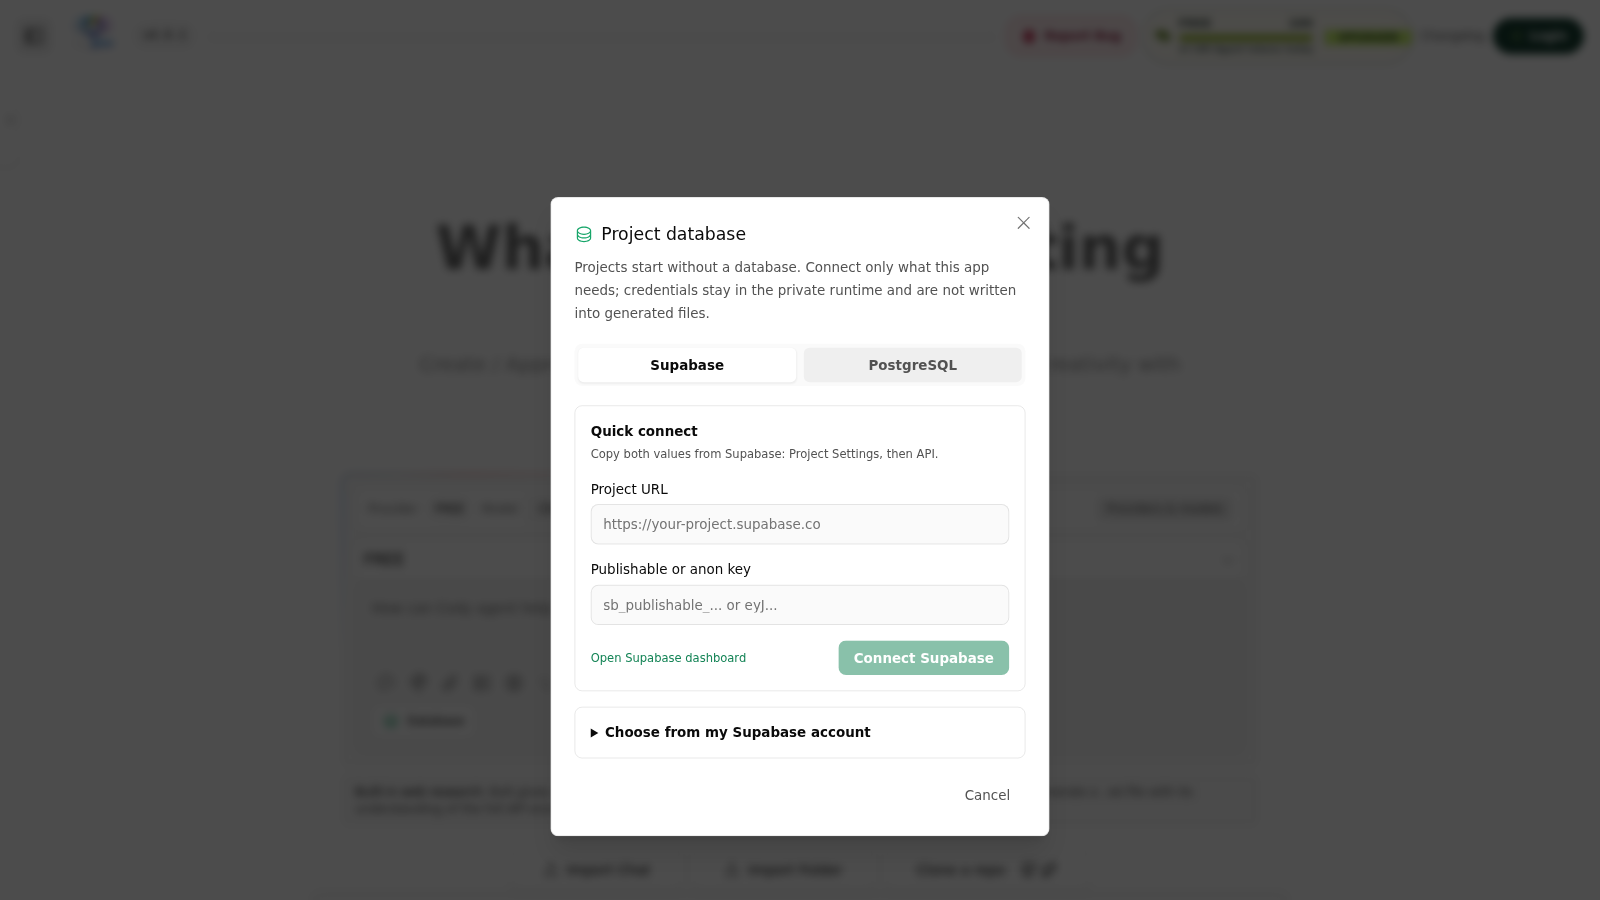
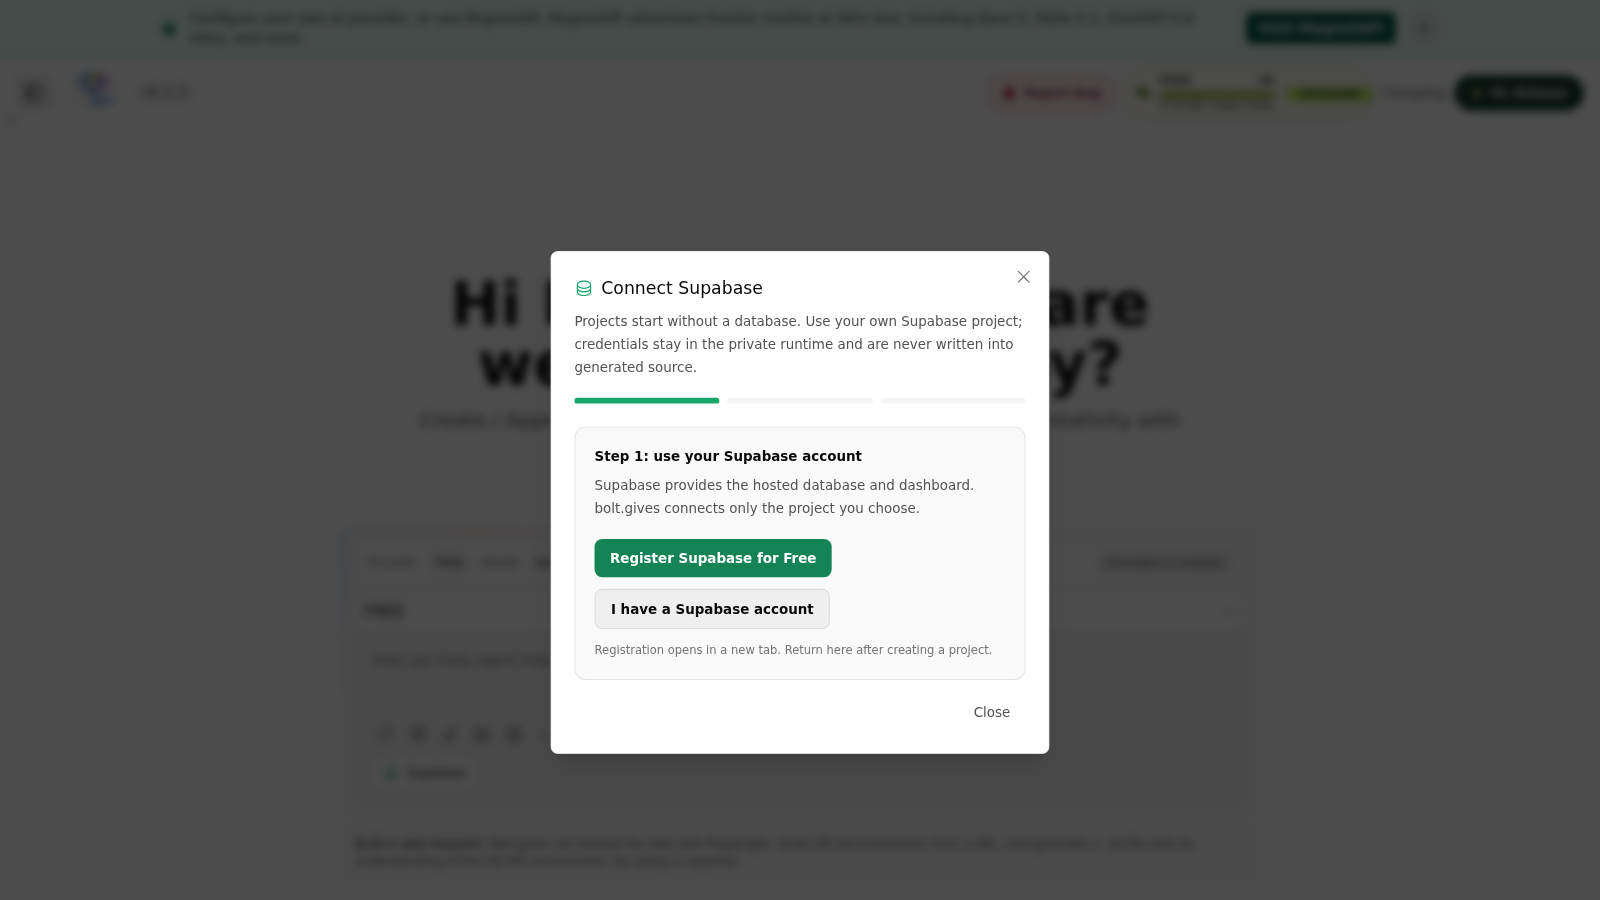
fix(release): accept current signing hierarchy

diff --git a/desktop/windows/src/BoltGives.Desktop.UpdateCore/Services/AuthenticodeVerifier.cs b/desktop/windows/src/BoltGives.Desktop.UpdateCore/Services/AuthenticodeVerifier.cs
@@ -8,12 +8,24 @@ public sealed record ArtifactVerificationResult(bool IsTrusted, string Message);
 
 public static class AuthenticodeVerifier
 {
-    private const string RootResource = "BoltGives.Desktop.UpdateCore.Certificates.microsoft-enterprise-identity-verification-root-2020.cer";
-    private const string AocResource = "BoltGives.Desktop.UpdateCore.Certificates.microsoft-enterprise-id-verification-cs-aoc-ca-03.cer";
-    private const string PcaResource = "BoltGives.Desktop.UpdateCore.Certificates.microsoft-enterprise-identity-verification-code-signing-pca-2020.cer";
[3 lines of base64/hex data omitted]
+    private sealed record CertificatePin(string Resource, string Hash, bool IsRoot, string Hierarchy);
+
+    private static readonly CertificatePin[] CertificatePins =
+    [
[6 lines of base64/hex data omitted]
+    ];
+    private static readonly string[] ExpectedPublisherAttributes =
+    [
+        "CN=lovemedia2.onmicrosoft.com",
+        "O=lovemedia2.onmicrosoft.com",
+        "OU=OpenWeb.co.za",
+        "C=ZA",
+    ];
     private static readonly Guid GenericVerifyV2 = new("00AAC56B-CD44-11D0-8CC2-00C04FC295EE");
     private const int Success = 0;
     private const int CertUntrustedRoot = unchecked((int)0x800B0109);
@@ -32,31 +44,42 @@ public static class AuthenticodeVerifier
         try
         {
             using var signer = new X509Certificate2(X509Certificate.CreateFromSignedFile(path));
-            using var root = LoadPinnedCertificate(RootResource, RootHash);
-            using var aoc = LoadPinnedCertificate(AocResource, AocHash);
-            using var pca = LoadPinnedCertificate(PcaResource, PcaHash);
-            if (!HasCodeSigningUsage(signer)) return new(false, "The artifact signer is not valid for code signing.");
-
-            using var chain = new X509Chain();
-            chain.ChainPolicy.TrustMode = X509ChainTrustMode.CustomRootTrust;
-            chain.ChainPolicy.RevocationMode = X509RevocationMode.NoCheck;
-            chain.ChainPolicy.VerificationFlags = X509VerificationFlags.IgnoreNotTimeValid;
-            chain.ChainPolicy.CustomTrustStore.Add(root);
-            chain.ChainPolicy.ExtraStore.Add(aoc);
-            chain.ChainPolicy.ExtraStore.Add(pca);
-            if (!chain.Build(signer))
+            var pinnedCertificates = CertificatePins.Select(LoadPinnedCertificate).ToList();
+            try
             {
-                var details = string.Join(", ", chain.ChainStatus.Select(item => item.Status));
-                return new(false, $"The artifact does not chain to the pinned Azure signing root: {details}");
+                if (!IsExpectedPublisherSubject(signer.Subject))
+                    return new(false, "The artifact publisher identity does not match bolt.gives.");
+                if (!HasCodeSigningUsage(signer)) return new(false, "The artifact signer is not valid for code signing.");
+
+                using var chain = new X509Chain();
+                chain.ChainPolicy.TrustMode = X509ChainTrustMode.CustomRootTrust;
+                chain.ChainPolicy.RevocationMode = X509RevocationMode.NoCheck;
+                chain.ChainPolicy.VerificationFlags = X509VerificationFlags.IgnoreNotTimeValid;
+                chain.ChainPolicy.CustomTrustStore.AddRange(
+                    new X509Certificate2Collection(pinnedCertificates.Where(item => item.Pin.IsRoot).Select(item => item.Certificate).ToArray()));
+                chain.ChainPolicy.ExtraStore.AddRange(
+                    new X509Certificate2Collection(pinnedCertificates.Where(item => !item.Pin.IsRoot).Select(item => item.Certificate).ToArray()));
+                if (!chain.Build(signer))
+                {
+                    var details = string.Join(", ", chain.ChainStatus.Select(item => item.Status));
+                    return new(false, $"The artifact does not chain to a pinned Azure signing root: {details}");
+                }
+
+                var chainHashes = chain.ChainElements
+                    .Select(element => element.Certificate.GetCertHashString(HashAlgorithmName.SHA256))
+                    .ToHashSet(StringComparer.OrdinalIgnoreCase);
+                var matchesApprovedHierarchy = CertificatePins
+                    .GroupBy(pin => pin.Hierarchy)
+                    .Any(hierarchy => hierarchy.All(pin => chainHashes.Contains(pin.Hash)));
+                if (!matchesApprovedHierarchy)
+                    return new(false, "The artifact publisher chain does not match a pinned bolt.gives signing hierarchy.");
+
+                return new(true, "Authenticode signature and pinned publisher chain verified.");
             }
-
-            var chainHashes = chain.ChainElements
-                .Select(element => element.Certificate.GetCertHashString(HashAlgorithmName.SHA256))
-                .ToHashSet(StringComparer.OrdinalIgnoreCase);
-            if (!chainHashes.Contains(RootHash) || !chainHashes.Contains(AocHash) || !chainHashes.Contains(PcaHash))
-                return new(false, "The artifact publisher chain does not match the pinned bolt.gives signing hierarchy.");
-
-            return new(true, "Authenticode signature and pinned publisher chain verified.");
+            finally
+            {
+                foreach (var item in pinnedCertificates) item.Certificate.Dispose();
+            }
         }
         catch (CryptographicException error)
         {
@@ -77,19 +100,25 @@ public static class AuthenticodeVerifier
             extension.EnhancedKeyUsages.OfType<Oid>().Any(oid => oid.Value == "1.3.6.1.5.5.7.3.3"));
     }
 
-    private static X509Certificate2 LoadPinnedCertificate(string resourceName, string expectedHash)
+    internal static bool IsExpectedPublisherSubject(string subject)
     {
-        using var stream = typeof(AuthenticodeVerifier).Assembly.GetManifestResourceStream(resourceName)
-            ?? throw new CryptographicException($"Pinned signing certificate {resourceName} is missing.");
+        var attributes = subject.Split(',').Select(attribute => attribute.Trim()).ToHashSet(StringComparer.OrdinalIgnoreCase);
+        return ExpectedPublisherAttributes.All(attributes.Contains);
+    }
+
+    private static (CertificatePin Pin, X509Certificate2 Certificate) LoadPinnedCertificate(CertificatePin pin)
+    {
+        using var stream = typeof(AuthenticodeVerifier).Assembly.GetManifestResourceStream(pin.Resource)
+            ?? throw new CryptographicException($"Pinned signing certificate {pin.Resource} is missing.");
         using var memory = new MemoryStream();
         stream.CopyTo(memory);
         var certificate = new X509Certificate2(memory.ToArray());
-        if (!certificate.GetCertHashString(HashAlgorithmName.SHA256).Equals(expectedHash, StringComparison.OrdinalIgnoreCase))
+        if (!certificate.GetCertHashString(HashAlgorithmName.SHA256).Equals(pin.Hash, StringComparison.OrdinalIgnoreCase))
         {
             certificate.Dispose();
             throw new CryptographicException("A pinned signing certificate failed its SHA-256 check.");
         }
-        return certificate;
+        return (pin, certificate);
     }
 
     private static int VerifyEmbeddedSignature(string path)

diff --git a/desktop/windows/tests/BoltGives.Desktop.Tests/UpdateSecurityTests.cs b/desktop/windows/tests/BoltGives.Desktop.Tests/UpdateSecurityTests.cs
@@ -86,5 +86,17 @@ public sealed class UpdateSecurityTests
         Assert.Contains(resources, name => name.EndsWith("microsoft-enterprise-identity-verification-root-2020.cer"));
         Assert.Contains(resources, name => name.EndsWith("microsoft-enterprise-id-verification-cs-aoc-ca-03.cer"));
         Assert.Contains(resources, name => name.EndsWith("microsoft-enterprise-identity-verification-code-signing-pca-2020.cer"));
+        Assert.Contains(resources, name => name.EndsWith("microsoft-identity-verification-root-2020.cer"));
+        Assert.Contains(resources, name => name.EndsWith("microsoft-id-verified-cs-aoc-ca-04.cer"));
+        Assert.Contains(resources, name => name.EndsWith("microsoft-id-verified-code-signing-pca-2021.cer"));
+    }
+
+    [Fact]
+    public void RequiresTheValidatedBoltGivesPublisherIdentity()
+    {
+        const string expected = "CN=lovemedia2.onmicrosoft.com, O=lovemedia2.onmicrosoft.com, OU=OpenWeb.co.za, STREET=22 Ladlau Drive, L=Ballito, S=KwaZulu-Natal, C=ZA, PostalCode=4399";
+
+        Assert.True(AuthenticodeVerifier.IsExpectedPublisherSubject(expected));
+        Assert.False(AuthenticodeVerifier.IsExpectedPublisherSubject(expected.Replace("O=lovemedia2.onmicrosoft.com", "O=Imposter Ltd")));
     }
 }

diff --git a/docs/quality/2026-09-12-v4.1-audit.md b/docs/quality/2026-09-12-v4.1-audit.md
@@ -175,7 +175,7 @@ Use **C++20, C++/WinRT, WinUI 3/XAML, and the Windows App SDK** as the preferred
 
 The existing WPF client is already a Windows-native technology. Rewriting it in C++ is not, by itself, a performance fix. First prove editor/terminal interoperability, accessibility, startup, memory, and update migration in a small vertical slice. C# with WinUI 3 is the fallback only if that measured spike shows a materially safer implementation; record the decision before expanding the rewrite.
 
-Use native controls for login, projects, conversation, composer, editor, terminal, settings, billing/deployment status, and updates. **No Electron, hosted-product iframe, or web UI wrapper.** WebView2 is restricted to the user's generated application Preview. Preserve the proprietary desktop source boundary: private repository/CI, compiled artifacts and redacted release metadata only in public releases. Work on bolt.gives; the separately developed commercial product is out of scope.
+Use native controls for login, projects, conversation, composer, editor, terminal, settings, billing/deployment status, and updates. **No Electron, hosted-product iframe, or web UI wrapper.** WebView2 is restricted to the user's generated application Preview. Desktop v1.11.0 supersedes the audit's former private-source assumption: source and CI now live under `desktop/windows`, while signing credentials and runtime secrets remain private. Work on bolt.gives; the separately developed commercial product is out of scope.
 
 ### Windows Work Packages
 

diff --git a/README.md b/README.md
@@ -237,7 +237,7 @@ Both implementation checkpoints are combined in v4.1.0. The production app/runti
 
 The updater downloads only an exact versioned GitHub asset, checks size and SHA-256, verifies the pinned Authenticode chain, requests administrator approval, closes the old app, validates the installed version, and rolls back on failure. Desktop uses its own `desktop-v*` version line. Future WinUI/C++ research remains a roadmap item and must outperform the working native client before replacing it.
 
-**Desktop v1.10.2 remains the released client. Desktop v2.0.0 is the proposed rewrite version**, independent of web v4.1.0 and not yet shipped. Desktop source remains private; public releases receive compiled assets only. No mandatory replacement will be rolled out before native parity, signing, migration, and updater failure-path tests pass.
+**Desktop v1.11.0 is the current mandatory native release. Desktop v2.0.0 remains a proposed WinUI research version**, independent of the web release line and not yet approved. The current WPF source is public; a future replacement will not ship until it proves native parity, trusted signing, migration, updater rollback, accessibility, and performance.
 
 ## Install on Ubuntu
 

diff --git a/CHANGELOG.md b/CHANGELOG.md
@@ -8,6 +8,7 @@
 - Keep the history drawer fully opaque while it slides and place history-item actions on an opaque action rail so collapsed/hover states cannot render text over text.
 - Publish the native Windows source, tests, installer, signature validation and release workflow under `desktop/windows`. Desktop v1.11.0 adds a native Supabase wizard and removes PostgreSQL provisioning claims from Live CLI.
 - Preserve the independent mandatory Desktop updater: exact GitHub assets, bounded downloads, SHA-256, pinned Authenticode, UAC, old-process shutdown, installed-version verification and rollback remain release gates.
+- Accept Microsoft's current ID Verified Artifact Signing hierarchy alongside the pinned legacy hierarchy. Both paths still require the complete pinned chain, the bolt.gives publisher identity, code-signing usage and an RFC3161 timestamp.
 
 ## v4.1.2 - 2026-09-20
 

diff --git a/docs/releases/v4.1.3.md b/docs/releases/v4.1.3.md
@@ -36,6 +36,7 @@ Desktop v1.11.0 is released independently under `desktop-v1.11.0`:
 - native Supabase registration, verification, replacement and disconnect workflow;
 - database-free isolated Live CLI provisioning;
 - Windows CI for restore, formatting, tests, signed self-contained publish, installer launch, successful update, forced post-install failure, rollback, and legacy relaunch;
+- strict verification of both Microsoft's legacy and current ID Verified Artifact Signing chains, with the complete hierarchy and bolt.gives publisher identity pinned;
 - mandatory update metadata for older supported clients.
 
 The application and installer contain no hosted provider key, signing credential, SMTP secret, infrastructure password, or profile token.

diff --git a/desktop/windows/RELEASE_NOTES.md b/desktop/windows/RELEASE_NOTES.md
@@ -15,6 +15,7 @@ Desktop v1.11.0 is a mandatory native Windows update released from the public `d
 - Publishes the complete C#/.NET 8 WPF source, portable tests, installer definition, and signed-release workflow in the main repository.
 - Preserves the separate `desktop-v*` release line and makes v1.11.0 mandatory for older supported clients.
 - Retains SHA-256, exact GitHub asset, size, Authenticode, UAC, old-process shutdown, post-install version, and rollback validation.
+- Pins both the legacy and current Microsoft ID Verified Artifact Signing hierarchies while still requiring the expected bolt.gives publisher identity and timestamp.
 
 ## Verification
 
